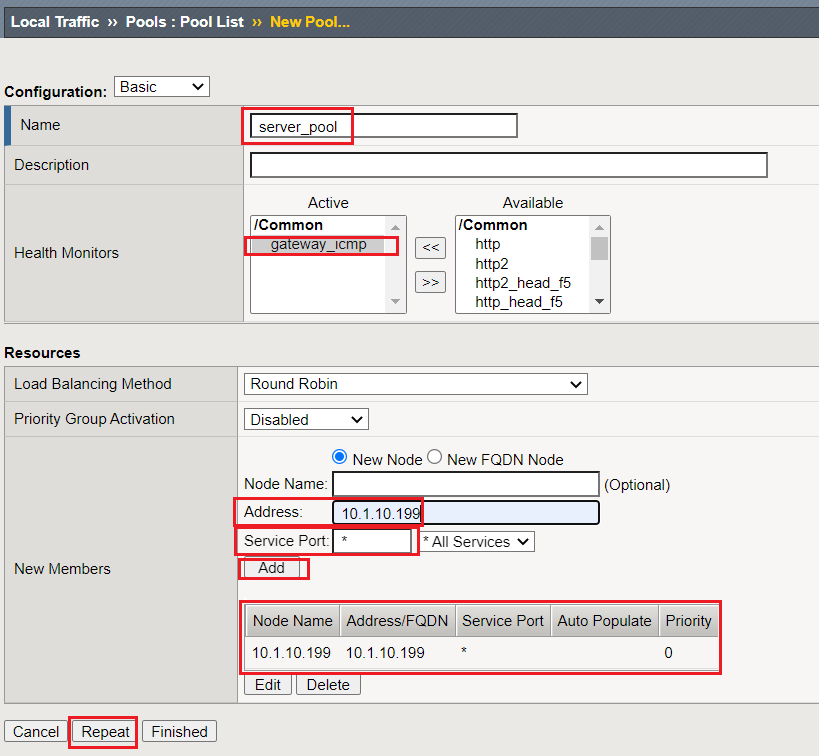
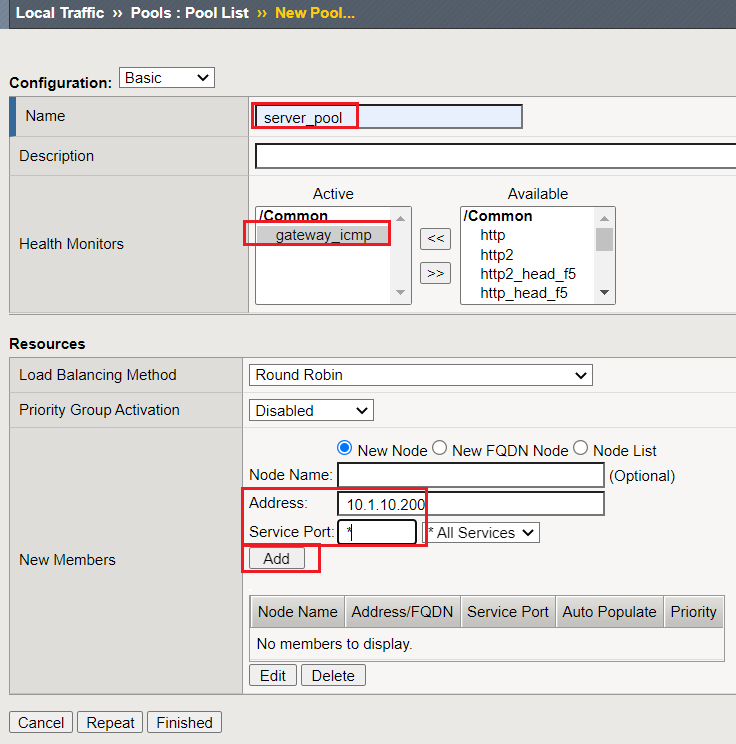
cwt-updates-lab7
lab7 pool updates

Changed region(s): [[0.0, 0.0927, 1.0, 1.0], [0.0, 0.0, 1.0, 0.0618], [0.8125, 0.2782, 0.8438, 0.3401]]

diff --git a/docs/class6/Module1/lab7.rst b/docs/class6/Module1/lab7.rst
@@ -27,10 +27,11 @@ We will create two pool objects:
          -  **New Node Address:** 10.1.10.199   
          -  **Service Port:** \* All Services       
          - Click the Add button
-  
-      - Click the Repeat Button to Create Pool 2
-  
+ 
         .. image:: ../images/image123.png
+
+   - Click the "Finished" Button:
+        .. image:: ../images/image135.png
 
    **Pool 2**
       -  **Name:** ext_gw_pool
